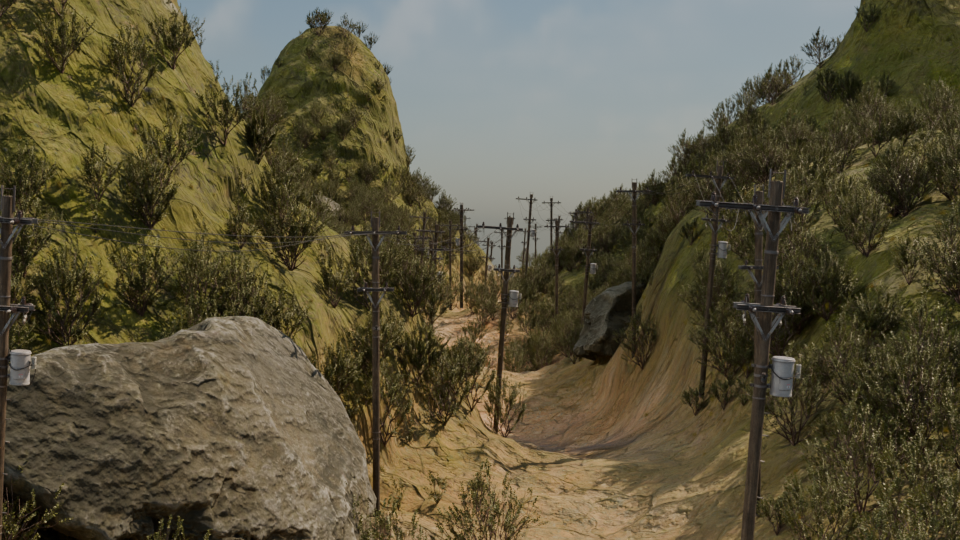
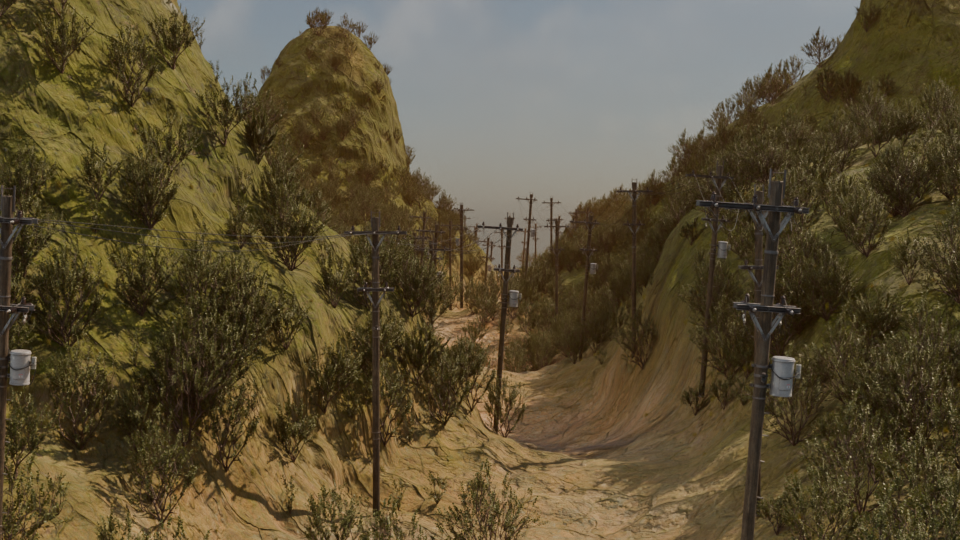
update

diff --git a/portfolio.md b/portfolio.md
@@ -12,7 +12,7 @@ title: 作品集
 
 ![描述文字](images/sources/自然2.png){:.responsive}
 
-进一步细化
+进一步细化，添加石头和体积雾，让场景更加真实
 
 ![添加石头](images/sources/自然2.png){:.responsive}
 
